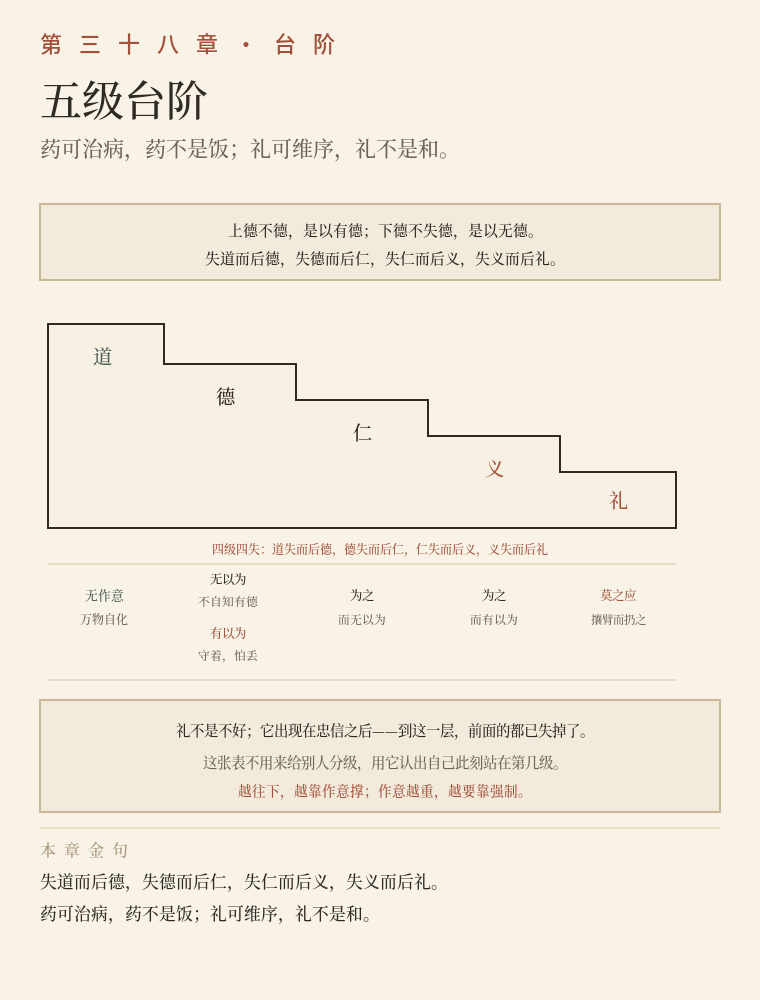
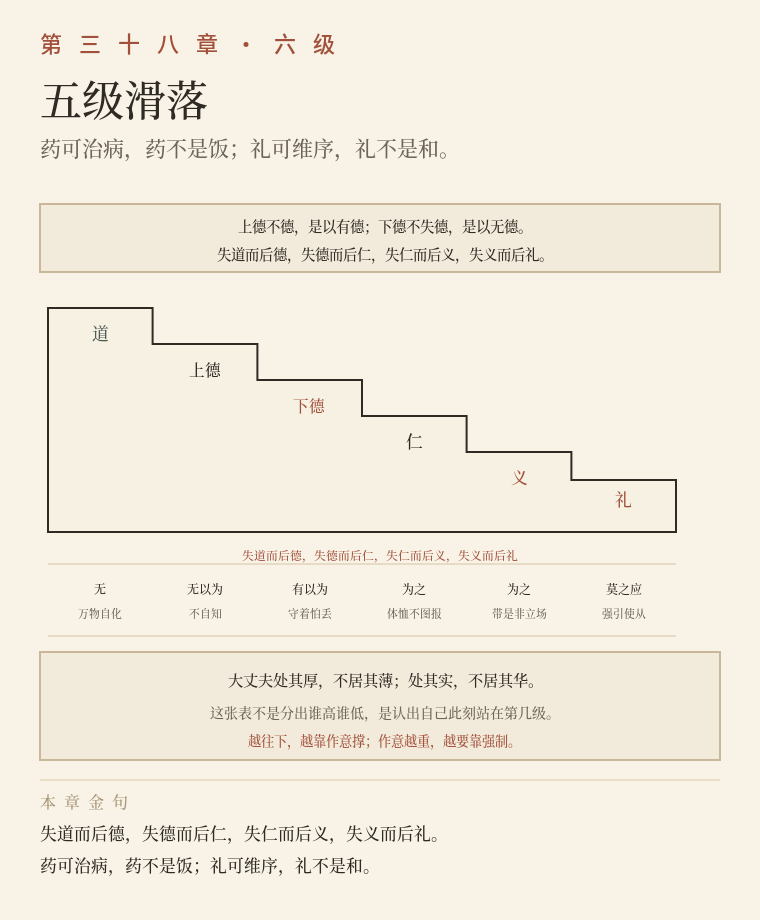
2.8.5 三十八与旧版合并：六级阶梯＋判语栏，旧纵列版移入 old/

diff --git a/tools/make_yili_svg.py b/tools/make_yili_svg.py
@@ -1609,7 +1609,7 @@ def ch23_xi_yan_zi_ran():
 
 # ============ 第二十四章 · 企者不立 ============
 def ch24_qi_zhe_bu_li():
-    W, H = 380, 452
+    W, H = 380, 460
     body, y = head(W, H, "两个动作，一个方向：想越过自己本来的位置", "第 二 十 四 章 · 余 食 赘 行", "企者不立",
                    "一个求高，一个求快；动机是同一个。", H)
     s = [body]
@@ -2829,53 +2829,49 @@ def ch37b_pu_yu_jing():
 
 # ============ 第三十八章 · 五级台阶 ============
 def ch38_wu_ji_tai_jie():
-    W, H = 380, 500
-    body, y = head(W, H, "一失再失：越往下，越靠作意撑", "第 三 十 八 章 · 台 阶",
-                   "五级台阶", "药可治病，药不是饭；礼可维序，礼不是和。", H)
+    W, H = 380, 460
+    body, y = head(W, H, "一失再失：越往下，越靠作意撑", "第 三 十 八 章 · 六 级",
+                   "五级滑落", "药可治病，药不是饭；礼可维序，礼不是和。", H)
     s = [body]
 
-    s.append(box(20, y + 2, 340, 38, fill="#F2EADA", stroke="#C9B79A"))
-    s.append(txt(190, y + 18, "上德不德，是以有德；下德不失德，是以无德。", 7.4, INK, "middle"))
-    s.append(txt(190, y + 32, "失道而后德，失德而后仁，失仁而后义，失义而后礼。", 7.4, INK, "middle"))
+    s.append(box(20, y + 2, 340, 34, fill="#F2EADA", stroke="#C9B79A"))
+    s.append(txt(190, y + 16, "上德不德，是以有德；下德不失德，是以无德。", 7.2, INK, "middle"))
+    s.append(txt(190, y + 30, "失道而后德，失德而后仁，失仁而后义，失义而后礼。", 7.2, INK, "middle"))
 
-    a = y + 48
-    base = a + 116
-    treads = [(24, 14), (82, 34), (148, 52), (214, 70), (280, 88)]
-    pts = []
-    for i, (x, off) in enumerate(treads):
-        nxt = treads[i + 1][0] if i + 1 < len(treads) else 338
-        pts.append(f'{nxt},{a+off}')
-        if i + 1 < len(treads):
-            pts.append(f'{nxt},{a+treads[i+1][1]}')
-    d = f'M24,{a+14} L' + ' L'.join(pts) + f' L338,{base} L24,{base} Z'
+    a = y + 44
+    base = a + 122
+    bnd = [24, 76.3, 128.7, 181, 233.3, 285.7, 338]
+    offs = [10, 28, 46, 64, 82, 96]
+    d = f'M{bnd[0]},{a+offs[0]} '
+    for i in range(6):
+        d += f'L{bnd[i+1]},{a+offs[i]} '
+        if i < 5:
+            d += f'L{bnd[i+1]},{a+offs[i+1]} '
+    d += f'L{bnd[6]},{base} L{bnd[0]},{base} Z'
     s.append(f'<path d="{d}" fill="#F7F1E3" stroke="{INK}" stroke-width="1"/>')
-    for nm, cx, cy, col in (("道", 51, 34, GREEN), ("德", 113, 54, INK), ("仁", 181, 72, INK),
-                            ("义", 247, 90, SEAL), ("礼", 309, 106, SEAL)):
-        s.append(txt(cx, a + cy, nm, 9.6, col, "middle"))
 
-    s.append(txt(190, base + 13, "四级四失：道失而后德，德失而后仁，仁失而后义，义失而后礼", 6.0, SEAL, "middle"))
+    levels = [("道", GREEN), ("上德", INK), ("下德", SEAL), ("仁", INK), ("义", SEAL), ("礼", SEAL)]
+    for i, (nm, col) in enumerate(levels):
+        cx = (bnd[i] + bnd[i+1]) / 2
+        s.append(txt(cx, a + offs[i] + (16 if i < 5 else 13), nm, 8.4 if len(nm) == 1 else 7.8, col, "middle"))
 
-    lg = base + 24
-    s.append(f'<line x1="24" y1="{lg-6}" x2="338" y2="{lg-6}" stroke="{LINE}" stroke-width="0.6"/>')
-    s.append(txt(52, lg + 12, "无作意", 6.4, GREEN, "middle"))
-    s.append(txt(52, lg + 24, "万物自化", 6.0, "#6E6459", "middle"))
-    s.append(txt(114, lg + 4, "无以为", 6.2, INK, "middle"))
-    s.append(txt(114, lg + 15, "不自知有德", 5.9, "#6E6459", "middle"))
-    s.append(txt(114, lg + 31, "有以为", 6.2, SEAL, "middle"))
-    s.append(txt(114, lg + 42, "守着，怕丢", 5.9, "#6E6459", "middle"))
-    s.append(txt(181, lg + 12, "为之", 6.2, INK, "middle"))
-    s.append(txt(181, lg + 24, "而无以为", 5.9, "#6E6459", "middle"))
-    s.append(txt(247, lg + 12, "为之", 6.2, INK, "middle"))
-    s.append(txt(247, lg + 24, "而有以为", 5.9, "#6E6459", "middle"))
-    s.append(txt(309, lg + 12, "莫之应", 6.2, SEAL, "middle"))
-    s.append(txt(309, lg + 24, "攘臂而扔之", 5.7, "#6E6459", "middle"))
-    s.append(f'<line x1="24" y1="{lg+52}" x2="338" y2="{lg+52}" stroke="{LINE}" stroke-width="0.6"/>')
+    s.append(txt(190, base + 14, "失道而后德，失德而后仁，失仁而后义，失义而后礼", 5.9, SEAL, "middle"))
 
-    y3 = lg + 62
-    s.append(box(20, y3, 340, 56, fill="#F2EADA", stroke="#C9B79A"))
-    s.append(txt(190, y3 + 18, "礼不是不好；它出现在忠信之后——到这一层，前面的都已失掉了。", 7.2, INK, "middle"))
-    s.append(txt(190, y3 + 34, "这张表不用来给别人分级，用它认出自己此刻站在第几级。", 7.2, "#6E6459", "middle"))
-    s.append(txt(190, y3 + 48, "越往下，越靠作意撑；作意越重，越要靠强制。", 6.8, SEAL, "middle"))
+    lg = base + 20
+    s.append(f'<line x1="24" y1="{lg-4}" x2="338" y2="{lg-4}" stroke="{LINE}" stroke-width="0.6"/>')
+    judges = [("无", "万物自化"), ("无以为", "不自知"), ("有以为", "守着怕丢"),
+              ("为之", "体恤不图报"), ("为之", "带是非立场"), ("莫之应", "强引使从")]
+    for i, (j, mark) in enumerate(judges):
+        cx = (bnd[i] + bnd[i+1]) / 2
+        s.append(txt(cx, lg + 11, j, 6.0, INK, "middle"))
+        s.append(txt(cx, lg + 23, mark, 5.4, "#6E6459", "middle"))
+    s.append(f'<line x1="24" y1="{lg+32}" x2="338" y2="{lg+32}" stroke="{LINE}" stroke-width="0.6"/>')
+
+    y3 = lg + 40
+    s.append(box(20, y3, 340, 54, fill="#F2EADA", stroke="#C9B79A"))
+    s.append(txt(190, y3 + 17, "大丈夫处其厚，不居其薄；处其实，不居其华。", 7.6, INK, "middle"))
+    s.append(txt(190, y3 + 33, "这张表不是分出谁高谁低，是认出自己此刻站在第几级。", 7.0, "#6E6459", "middle"))
+    s.append(txt(190, y3 + 47, "越往下，越靠作意撑；作意越重，越要靠强制。", 6.6, SEAL, "middle"))
     s.append(gold(y3 + 64, "ch38"))
     s.append('</svg>')
     return "\n".join(s)

diff --git a/book/义理图-体例.md b/book/义理图-体例.md
@@ -79,7 +79,7 @@
 | 三十六·b | ch36b-wei-ming-yuan | 微明 · 渊 · 利器 | 拐点未显（曲线顶点＋赭点／胜＝任：直梁撑不住、弯梁承得住）／渊与鱼（回水圈里鱼 vs 岸上鱼鳃张，鱼自己跳上岸）／利器（墙上挂刀 vs 嘴上一把刀被禁）；读图一句：看见拐点的人不出声，出声的人已经在下棋。 |
 | 三十七·a | ch37a-wei-shou-xiang | 手牵象，与自化 | 为（手在上、绳系象）／无为（绳落地上，象自己走）；化（一手指向一人，旁有「教」）／自化（加一个「自」，方向反了）；读图一句：手一拿开，象还是那头象，路还是那条路。 |
 | 三十七·b | ch37b-pu-yu-jing | 朴 · 静 · 自正 | 原木压火（没上漆没雕花没名字）对刀压人（人会反弹）；静（劲不必往外扯）对驰（人没动心跑了）；自正（脚落在止上）对定（有人按着）；读图一句：木头上什么都没有，所以火没处可攀。 |
-| 三十八 | ch38-wu-ji-tai-jie | 五级台阶 | 阶梯剖面：道→德→仁→义→礼逐级下沉；栏下判语（无作意／无以为·有以为／为之而无以为／为之而有以为／莫之应）；读图一句：礼不是不好，是它出现在忠信之后。 |
+| 三十八 | ch38-wu-ji-tai-jie | 五级滑落 | 六级阶梯剖面（道／上德／下德／仁／义／礼）逐级下沉，栏下一行「失道而后德…」；六级各带判语与迹象（无·万物自化／无以为·不自知／有以为·守着怕丢／为之·体恤不图报／为之·带是非立场／莫之应·强引使从）；收束用「大丈夫处其厚…」；读图一句：这张表不是分出谁高谁低，是认出自己此刻站在第几级。旧版 ch38-wu-ji（纵列方框）已移入 old/ |
 | 三十六·a | ch36a-si-dui-jie-lv | 四对：一张一阖 | 四格：歙/张（弓弦与呼）／弱/强（曲枝对绷弦）／废/兴（塌顶屋对四手举物）／取/与（伸手拿对托饼给）；「固」一字两路：观天（必然如此）／下棋（你就这样办）；读图一句：四对不是四招，是四个时辰。 |
 | 三十五·a | ch35a-zhi-yu-chang | 执大象，天下往 | 两只手：向外扣（手形自带被抓的人）／向内捧（捧住的是自己）；场与门槛：虚线圈里站着人、旁边一幅可挂的图、横伸手把圈切成门；安平泰三格（宀下有人／两高下无压／气穿过） |
 | 三十四·b | ch34b-yi-ju-liang-du | 一句两读：小与大 | 帛书同句两见：中心「不主」环、万物自外归而不入其内；左读作小（不伸张/不认领/不做主），右读作大（差异都进来、不必改成一样）；下证「恒无欲」：按本库第一章「欲＝发心、志求（从谷从欠）」立义，第三章所戒是攀缘之欲，本章不是把欲掐掉，是那一念从不把场填满锁死（「无」依本库第一章定义：虚场，非空无） |
